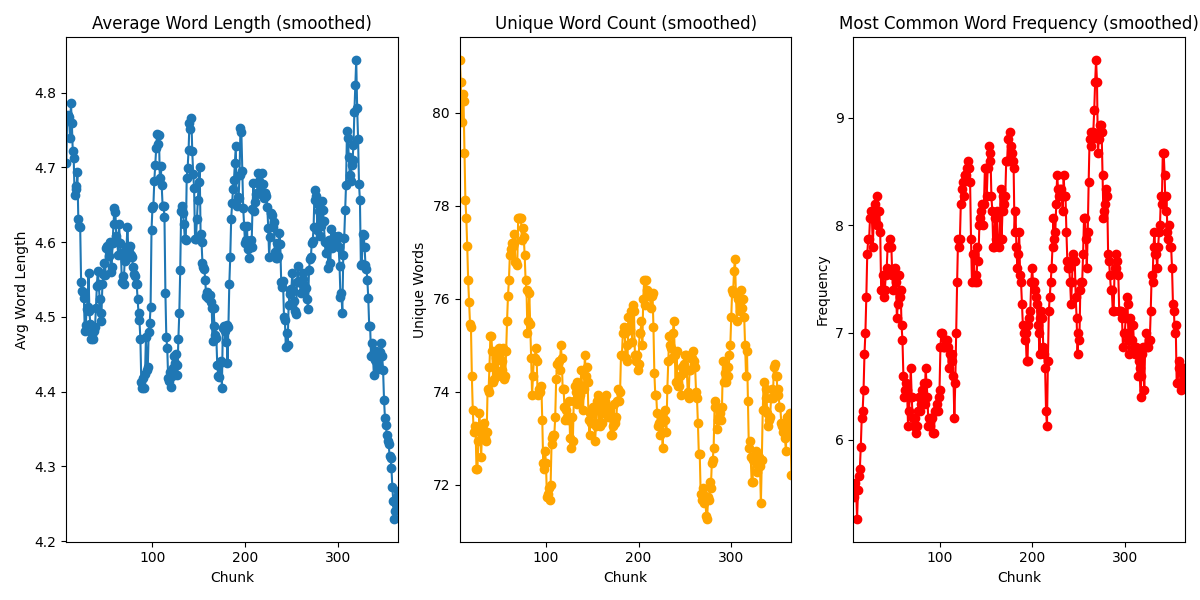
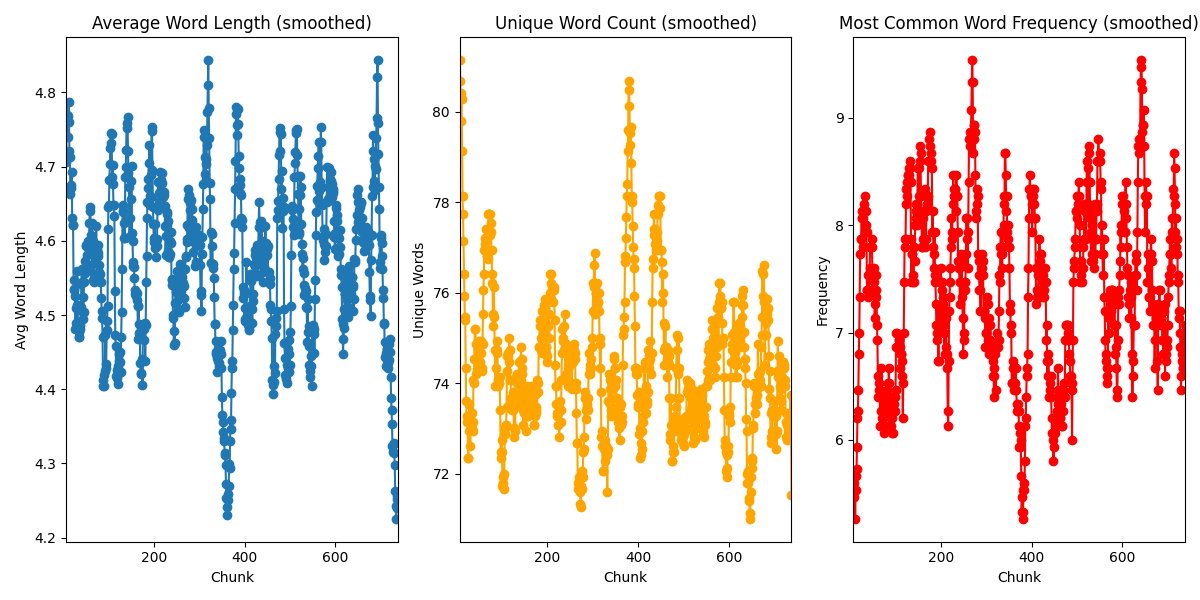
added more data

diff --git a/core.py b/core.py
@@ -17,27 +17,29 @@ class SentimentClassifier:
             outputs = self.model.generate(**inputs, max_new_tokens=max_tokens)
         return self.tokenizer.decode(outputs[0], skip_special_tokens=True)
 
-from torch.utils.data import Dataset
-
 class DNDDataset(Dataset):
-    def __init__(self, filepath, max_length=100, stride=None):
+    def __init__(self, filepaths, max_length=100, stride=None):
+        if isinstance(filepaths, str):
+            filepaths = [filepaths]  # allow single string input
+
         self.max_length = max_length
         self.stride = stride or max_length
         self.chunks = []
 
         buffer_text = ""
 
-        with open(filepath, "r", encoding="utf-8") as f:
-            for line in f:
-                buffer_text += line.strip() + " "
-                words = buffer_text.split()
-                while len(words) >= self.max_length:
-                    chunk = " ".join(words[:self.max_length])
-                    self.chunks.append(chunk)
-                    words = words[self.stride:]
-                    buffer_text = " ".join(words)
+        for filepath in filepaths:
+            with open(filepath, "r", encoding="utf-8") as f:
+                for line in f:
+                    buffer_text += line.strip() + " "
+                    words = buffer_text.split()
+                    while len(words) >= self.max_length:
+                        chunk = " ".join(words[:self.max_length])
+                        self.chunks.append(chunk)
+                        words = words[self.stride:]
+                        buffer_text = " ".join(words)
 
-        # Add remaining text
+        # Add any remaining text as last chunk
         if buffer_text.strip():
             self.chunks.append(buffer_text.strip())
 

diff --git a/main.py b/main.py
@@ -8,7 +8,7 @@ def main():
     time_start = time.time()
 
     path_model = 'models'
-    path_data = 'data/notes.txt'
+    path_data = ['data/old_notes.txt', 'data/notes.txt']
 
     # Get the pre-trained model
     model = SentimentClassifier(path_model)
